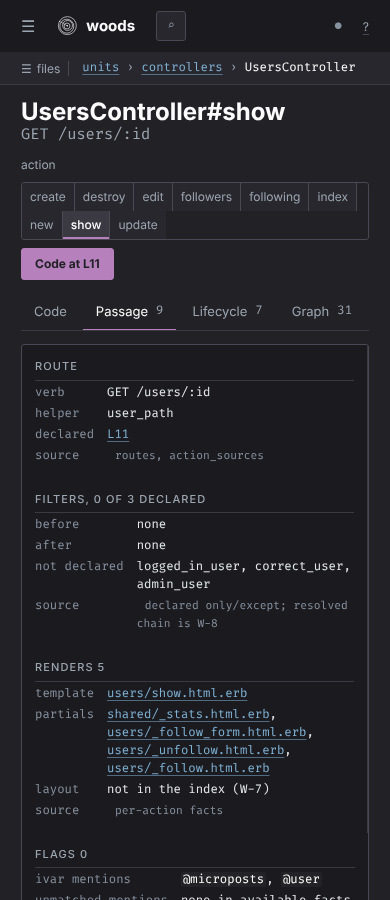
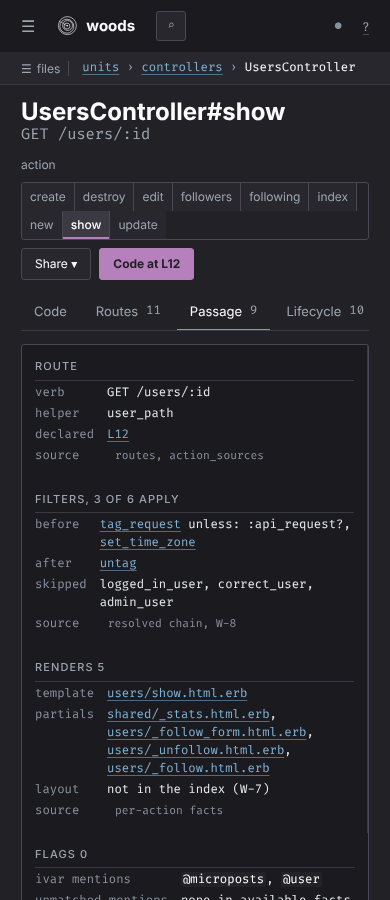
Draw the Passage filter matrix from the resolved chain (W-8)
The Passage tab now takes each filter's applies_to, owner and
applicability from Woods' resolved chain (woods#800). The matrix is in
chain order with owners linked when the index holds them and concerns
marked with an arrow; a conditional filter is marked as such and its
check means it can run, never that it does. The filter stages count the
filters that apply and list the skipped ones. A generation extracted
before W-8 keeps the declared only/except scopes and names the resolved
chain as a limit.

Advances #3 (B-16).

diff --git a/app/assets/stylesheets/woods_map/map.css b/app/assets/stylesheets/woods_map/map.css
@@ -15,8 +15,8 @@ html.js .wm .tbl.grouped tr.sub:not(.open){display:none}
 .wm .tree [data-tree-target="row"][hidden] { display:none!important; }
 /* Inline links: a cue besides colour (D-22, WCAG 1.4.1, axe link-in-text-block). Standalone
    links stay bare; a link sitting among other text gets a faint underline in its own hue. */
-.wm .crumbs a,.wm .empty-state a,.wm .cap a,.wm .lead a,.wm .det dd a,.wm .facts dd a,.wm .banner .txt a,.wm .legend a,.wm .st a,.wm .mg a,.wm .rail li a,.wm .tip a,.wm .finding a,.wm .status a,.wm .psg .rows a,.wm .sec > header .t2 a,.wm .tbl tr.bnd a,.wm .guide .msg .text a{text-decoration:underline;text-decoration-color:color-mix(in srgb,var(--link) 55%,transparent);text-underline-offset:3px}
-.wm .crumbs a:hover,.wm .empty-state a:hover,.wm .cap a:hover,.wm .lead a:hover,.wm .det dd a:hover,.wm .facts dd a:hover,.wm .banner .txt a:hover,.wm .legend a:hover,.wm .st a:hover,.wm .mg a:hover,.wm .rail li a:hover,.wm .tip a:hover,.wm .finding a:hover,.wm .status a:hover,.wm .psg .rows a:hover,.wm .sec > header .t2 a:hover,.wm .tbl tr.bnd a:hover,.wm .guide .msg .text a:hover{text-decoration-color:var(--link)}
+.wm .crumbs a,.wm .empty-state a,.wm .cap a,.wm .lead a,.wm .det dd a,.wm .facts dd a,.wm .banner .txt a,.wm .legend a,.wm .st a,.wm .mg a,.wm .rail li a,.wm .tip a,.wm .finding a,.wm .status a,.wm .psg .rows a,.wm .sec > header .t2 a,.wm .tbl tr.bnd a,.wm .guide .msg .text a,.wm .matrix .mut a{text-decoration:underline;text-decoration-color:color-mix(in srgb,var(--link) 55%,transparent);text-underline-offset:3px}
+.wm .crumbs a:hover,.wm .empty-state a:hover,.wm .cap a:hover,.wm .lead a:hover,.wm .det dd a:hover,.wm .facts dd a:hover,.wm .banner .txt a:hover,.wm .legend a:hover,.wm .st a:hover,.wm .mg a:hover,.wm .rail li a:hover,.wm .tip a:hover,.wm .finding a:hover,.wm .status a:hover,.wm .psg .rows a:hover,.wm .sec > header .t2 a:hover,.wm .tbl tr.bnd a:hover,.wm .guide .msg .text a:hover,.wm .matrix .mut a:hover{text-decoration-color:var(--link)}
 /* Native explanation controls retain the inline glyph styling; tabs use the existing scroll cliff. */
 .wm button.info{font-size:inherit;line-height:inherit;padding:0;border:0;background:none}
 .wm .page-tabs .tab{flex-shrink:0;white-space:nowrap}
@@ -249,3 +249,5 @@ html.js .wm .guide .guide-nojs{display:none}
 .wm .legend i.gblast[data-distance="2"]{border-color:var(--mod)}
 /* Cytoscape's container rule, which it would otherwise inject as an inline <style> the policy refuses. */
 .wm .__________cytoscape_container{position:relative}
+/* Filter matrix owners (B8-Passage): muted, regular weight, like the board's owner line */
+.wm .matrix td.id .mut a{font-weight:inherit}

diff --git a/spec/requests/resolved_filters_spec.rb b/spec/requests/resolved_filters_spec.rb
@@ -1,0 +1,80 @@
+# frozen_string_literal: true
+
+# The Passage tab over the resolved filter chain (W-8, woods#758), and its
+# fallback to declared scopes on a generation published before it.
+RSpec.describe 'The filter chain on the Passage tab', type: :request do
+  context 'with the resolved chain' do
+    def resolve(unit)
+      unit = unit.deep_dup
+      filters = unit['metadata']['filters']
+      filters.each do |f|
+        f.merge!('owner' => 'ActionController::Base', 'applies_to' => unit['metadata']['actions'],
+                 'applicability' => 'resolved')
+      end
+      apps = filters.select { |f| f['file'] }
+      apps[0].merge!('owner' => 'UsersController', 'applies_to' => %w[edit update])
+      apps[1].merge!('owner' => 'Authenticating', 'applies_to' => %w[create edit], 'applicability' => 'conditional',
+                     'unless' => ':api_request?')
+      apps[2].merge!('owner' => 'MicropostsController', 'applies_to' => [])
+      unit
+    end
+
+    before do
+      allow(WoodsMap::Repository).to receive(:open).and_wrap_original do |open, *args, &block|
+        open.call(*args) do |repository|
+          allow(repository).to receive(:unit).and_wrap_original do |unit, identifier, **options|
+            found = unit.call(identifier, **options)
+            identifier == 'UsersController' && found ? resolve(found) : found
+          end
+          allow(repository).to receive(:identifier_types).and_wrap_original do |types, identifier|
+            identifier == 'Authenticating' ? ['concern'] : types.call(identifier)
+          end
+          block.call(repository)
+        end
+      end
+      get '/woods/units/controller/UsersController/passage?action_name=edit'
+    end
+
+    it 'draws the matrix in chain order with the resolved actions' do
+      expect(response).to have_http_status(:ok)
+      expect(response.body).to include('Filter matrix <span class="n">chain order</span>', '>filter, owner</th>')
+      expect(response.body[%r{admin_user</a>.*?</tr>}m]).not_to include('✓')
+    end
+
+    it 'links each other owner the index holds, marks a concern and names the controller itself plainly' do
+      expect(response.body).to include('← <a href="/woods/units/concern/Authenticating">Authenticating</a>',
+                                       '<a href="/woods/units/controller/MicropostsController">',
+                                       '<span class="mut regular">UsersController</span>')
+    end
+
+    it 'marks a conditional filter as such and never claims its condition resolves' do
+      expect(response.body).to include(', conditional: unless: :api_request?')
+      expect(response.body).to include('title="unless: :api_request?; only: edit, update"')
+      expect(response.body).to include('<span class="sr-only">, when unless: :api_request?</span>')
+      expect(response.body).to include('conditional, not evaluated')
+    end
+
+    it 'counts applying filters from the resolved chain and labels the rest skipped' do
+      expect(response.body).to include('Filters, 2 of 3 apply', 'resolved chain, W-8')
+      expect(response.body).to include('<span>skipped</span><span>admin_user, only: destroy, from ')
+      expect(response.body).to include('filter if/unless conditions are not evaluated')
+      expect(response.body).not_to include('W-8, re-extract', 'declared scope')
+    end
+  end
+
+  context 'without the resolved chain in the generation' do
+    before { get '/woods/units/controller/UsersController/passage?action_name=edit' }
+
+    it 'keeps the declared matrix' do
+      expect(response).to have_http_status(:ok)
+      expect(response.body).to include('Filter matrix <span class="n">declared scope</span>',
+                                       '>filter, declared in</th>', 'Filters, 2 of 3 declared')
+      expect(response.body).not_to include('chain order', 'conditional, not evaluated')
+    end
+
+    it 'names the resolved chain as a limit' do
+      expect(response.body).to include('this generation has no resolved chain (W-8)', 'W-8, re-extract',
+                                       'resolved filter chain and owners, not in this generation')
+    end
+  end
+end

diff --git a/lib/woods_map/passage.rb b/lib/woods_map/passage.rb
@@ -3,30 +3,16 @@
 module WoodsMap
   # The data passage of one controller or mailer action (B8-Passage): what the
   # index publishes of request → filters → action → templates → response.
-  # Filter scopes are shown as declared; the resolved chain and owner (W-8)
-  # is named as a limit, never derived here. With W-7's per-action facts the
-  # passage knows what the action and its filters assign and render, and
-  # notes template ivar mentions with no assignment recorded in those bodies.
+  # Filters follow the resolved chain Woods publishes (W-8, woods#758): the
+  # actions each applies to, its owner and whether an if/unless condition
+  # still decides it. On a generation without it the passage falls back to
+  # the declared only/except and names the resolved chain as a limit; it never
+  # derives the chain itself. With W-7's per-action facts the passage knows
+  # what the action and its filters assign and render, and notes template ivar
+  # mentions with no assignment recorded in those bodies.
   class Passage
-    # One application filter with its declared scope.
-    Filter = Struct.new(:kind, :name, :only, :except, :file, :line, keyword_init: true) do
-      # @return [String] the declared scope as Rails reads it
-      def scope
-        return "only: #{only.join(', ')}" if only
-        return "except: #{except.join(', ')}" if except
-
-        'every action'
-      end
-
-      # @param action [String]
-      # @return [Boolean] whether the declared only/except names the action
-      def declared_for?(action)
-        return only.include?(action) if only
-        return except.exclude?(action) if except
-
-        true
-      end
-    end
+    # One application filter (see {PassageFilter}).
+    Filter = PassageFilter
 
     # A template ivar mention with no assignment recorded in the action or its filters.
     Flag = Struct.new(:ivar, :template, keyword_init: true)
@@ -83,12 +69,20 @@ module WoodsMap
         (facts&.line && { 'owner' => identifier, 'file' => facts.file, 'line' => facts.line })
     end
 
-    # @return [Array<Filter>] the application's filters in declared order; framework ones are counted, not listed
+    # @return [Array<Filter>] the application's filters in chain order; framework ones are counted, not listed
     def filters
       @filters ||= raw_filters.reject { |f| framework?(f) }.map do |f|
         Filter.new(kind: f['kind'] || f['type'].to_s.sub('_action', ''), name: f['filter'].to_s,
-                   only: f['only'], except: f['except'], file: f['file'], line: f['line'])
+                   only: f['only'], except: f['except'], if_condition: f['if'], unless_condition: f['unless'],
+                   file: f['file'], line: f['line'], owner: f['owner'], applies_to: f['applies_to'],
+                   applicability: f['applicability'])
       end
+    end
+
+    # @return [Boolean] whether every filter carries the resolved chain (W-8); false on an older
+    #   generation, where the passage shows declared scopes and names the limit
+    def resolved?
+      raw_filters.any? && raw_filters.all? { |f| f['applies_to'].is_a?(Array) }
     end
 
     # @return [Integer] filters the framework adds (engines, CSRF, origin), hidden from the passage
@@ -97,9 +91,10 @@ module WoodsMap
     end
 
     # @param for_action [String]
-    # @return [Array<Filter>] the filters whose declared scope names the action
+    # @return [Array<Filter>] the filters that apply to the action, in chain order: the published
+    #   applies_to (W-8), else the declared scope
     def filters_for(for_action = action)
-      filters.select { |f| f.declared_for?(for_action) }
+      filters.select { |f| f.applies?(for_action) }
     end
 
     # @return [Array<String>] path parameters named by the action's routes

diff --git a/spec/woods_map/passage_spec.rb b/spec/woods_map/passage_spec.rb
@@ -27,10 +27,49 @@ RSpec.describe WoodsMap::Passage do
     expect(show.filters.first.scope).to start_with('only: destroy, edit')
   end
 
-  it 'applies only/except as declared, never resolved' do
+  it 'applies only/except as declared on a generation without the resolved chain' do
     show = passage('UsersController', action: 'show')
     expect(show.filters_for.map(&:name)).to eq([])
     expect(show.filters_for('edit').map(&:name)).to eq(%w[logged_in_user correct_user])
+  end
+
+  # W-8 (woods#758): each filter carries the actions it applies to, its owner
+  # and whether an if/unless condition still decides it.
+  def resolved_passage(action)
+    WoodsMap::Repository.open(FIXTURE_INDEX) do |repository|
+      unit = repository.unit('UsersController', type: 'controller').deep_dup
+      unit['metadata']['filters'] = unit['metadata']['filters'].map do |f|
+        f.merge('owner' => 'ActionController::Base', 'applies_to' => unit['metadata']['actions'],
+                'applicability' => 'resolved')
+      end
+      apps = unit['metadata']['filters'].select { |f| f['file'] }
+      apps[0].merge!('owner' => 'UsersController', 'applies_to' => %w[edit update], 'applicability' => 'resolved')
+      apps[1].merge!('owner' => 'Authenticating', 'applies_to' => %w[create edit], 'applicability' => 'conditional',
+                     'unless' => ':api_request?')
+      apps[2].merge!('owner' => 'ApplicationController', 'applies_to' => [], 'applicability' => 'resolved')
+      described_class.new(repository, unit, action: action)
+    end
+  end
+
+  it 'applies the published resolved chain when the generation carries it (W-8)' do
+    edit = resolved_passage('edit')
+    expect(edit).to be_resolved
+    expect(edit.filters_for.map(&:name)).to eq(%w[logged_in_user correct_user])
+    expect(edit.filters_for('destroy').map(&:name)).to eq([])
+    expect(edit.filters_for('create').map(&:name)).to eq(%w[correct_user])
+  end
+
+  it 'keeps each filter owner and marks a conditional filter as such' do
+    filters = resolved_passage('edit').filters
+    expect(filters.map(&:owner)).to eq(%w[UsersController Authenticating ApplicationController])
+    expect(filters.map(&:conditional?)).to eq([false, true, false])
+    expect(filters[1].condition).to eq('unless: :api_request?')
+    expect(filters[0].condition).to be_nil
+  end
+
+  it 'falls back to declared scopes on a generation without the resolved chain' do
+    expect(passage('UsersController', action: 'edit')).not_to be_resolved
+    expect(passage('UsersController', action: 'edit').filters.map(&:owner)).to all(be_nil)
   end
 
   it 'ties the templates to the action through the view_render edge and follows their partials' do

diff --git a/lib/woods_map/passage_filter.rb b/lib/woods_map/passage_filter.rb
@@ -1,0 +1,48 @@
+# frozen_string_literal: true
+
+module WoodsMap
+  # One application filter: its declared scope and, from W-8, the actions it
+  # applies to, its owner and its applicability.
+  PassageFilter = Struct.new(:kind, :name, :only, :except, :if_condition, :unless_condition, :file, :line,
+                             :owner, :applies_to, :applicability, keyword_init: true) do
+    # @return [String] the declared scope as Rails reads it
+    def scope
+      return "only: #{only.join(', ')}" if only
+      return "except: #{except.join(', ')}" if except
+
+      'every action'
+    end
+
+    # @param action [String]
+    # @return [Boolean] whether the declared only/except names the action
+    def declared_for?(action)
+      return only.include?(action) if only
+      return except.exclude?(action) if except
+
+      true
+    end
+
+    # @return [Boolean] whether the generation published this filter's resolved actions (W-8)
+    def resolved?
+      !applies_to.nil?
+    end
+
+    # @param action [String]
+    # @return [Boolean] whether the filter applies: its published applies_to,
+    #   else its declared only/except
+    def applies?(action)
+      resolved? ? applies_to.include?(action) : declared_for?(action)
+    end
+
+    # @return [Boolean] whether an if/unless condition Woods does not evaluate also decides it
+    def conditional?
+      applicability == 'conditional'
+    end
+
+    # @return [String, nil] the declared if/unless condition, e.g. "unless: :api_request?"
+    def condition
+      parts = [("if: #{if_condition}" if if_condition), ("unless: #{unless_condition}" if unless_condition)]
+      parts.compact.join(', ').presence
+    end
+  end
+end

diff --git a/app/helpers/woods_map/units_helper.rb b/app/helpers/woods_map/units_helper.rb
@@ -18,6 +18,19 @@ module WoodsMap
       link_to(label || identifier, woods_map.unit_path(type: type, identifier: identifier))
     end
 
+    # The class or concern that declared a filter (W-8), linked when the index
+    # holds it; a concern is marked "← " as on B8-Passage.
+    #
+    # @param owner [String, nil]
+    # @return [ActiveSupport::SafeBuffer]
+    def filter_owner(owner)
+      return ERB::Util.html_escape('') if owner.blank?
+
+      types = Array(current_repository&.identifier_types(owner))
+      link = unit_link(owner, (%w[controller mailer concern] & types).first || types.first)
+      types.include?('concern') ? safe_join(['← ', link]) : link
+    end
+
     # A link to a line of the unit that owns a file, through the graph's file map.
     #
     # @param file [String] a path relative to the application root

diff --git a/spec/woods_map/impact_review_spec.rb b/spec/woods_map/impact_review_spec.rb
@@ -18,7 +18,7 @@ RSpec.describe WoodsMap::ImpactReview do
   it 'names what the other rules need' do
     v = review('User')
     expect(v.rules.find { |x| x.name == 'foreign key dropped' }.result).to eq('needs a range')
-    expect(v.rules.find { |x| x.name == 'filter chain changed' }.result).to eq('needs W-8 and a range')
+    expect(v.rules.find { |x| x.name == 'filter chain changed' }.result).to eq('needs a range')
   end
 
   it 'runs the unassigned-ivar rule on the per-action facts, from the mailer or from its template' do

diff --git a/lib/woods_map/impact_review.rb b/lib/woods_map/impact_review.rb
@@ -24,7 +24,7 @@ module WoodsMap
       ['callback side effect changed', 'note', 'callbacks.side_effects, both generations', 'resolved chain',
        'a range'],
       ['filter chain changed', 'note', 'filters.applies_to, both generations', 'resolved chain',
-       'W-8 and a range'],
+       'a range'],
       ['foreign key dropped', 'blocking', 'foreign_keys, both generations', 'model metadata', 'a range']
     ].freeze
 

diff --git a/lib/woods_map.rb b/lib/woods_map.rb
@@ -33,6 +33,7 @@ require 'woods_map/neighbourhood_response'
 require 'woods_map/history_view'
 require 'woods_map/action_facts'
 require 'woods_map/passage_templates'
+require 'woods_map/passage_filter'
 require 'woods_map/passage'
 require 'woods_map/permitted_attributes'
 require 'woods_map/routes_view'

diff --git a/CLAUDE.md b/CLAUDE.md
@@ -46,7 +46,7 @@ lib/woods_map/hover_card.rb      # B-3 hover cards: graph node, PageRank place a
 lib/woods_map/{schema_view,lifecycle,neighbourhood,history_view}.rb  # the Schema, Lifecycle, Graph and History tabs
 lib/woods_map/{lifecycle_chart,state_machine_view}.rb  # the Lifecycle flowchart and lanes; a model's published state machines
 lib/woods_map/erd.rb             # /woods/erd: database_table units chunked at the ER budget, relations, schema findings (cached per generation)
-lib/woods_map/passage.rb         # the Passage tab: declared filters, templates by the view_render edge, the ladder's model and event
+lib/woods_map/{passage,passage_filter}.rb  # the Passage tab: the resolved filter chain (W-8; declared scopes on older generations), templates by the view_render edge, the ladder's model and event
 lib/woods_map/routes_view.rb     # the controller Routes tab: declared routes joined to route units, helpers, action sources, helper references
 lib/woods_map/permitted_attributes.rb  # permitted keys against the model's published columns, associations, attachments, rich text, writers
 lib/woods_map/{neighbourhood_query,neighbourhood_response,graph_elements}.rb  # bounded JSON projection of existing traversal
@@ -80,7 +80,7 @@ docs/design/                     # design study, decisions, boards, foundations,
 - `Neighbourhood` receives the selected unit type from its route and traverses typed identities, including variant edges. Type filters apply to the endpoint first reached by each breadth-first edge visit; missing type metadata on older graphs falls back to the primary node. Graph-analysis notes retain their published identifier-level scope.
 - `Lifecycle` keeps only callbacks whose method the unit's source or an inlined concern defines; framework callbacks and procs are counted as a limit, not drawn as steps. `?view=` picks the sequence (default), flowchart or lanes (`swimlane-beta`) text from the same steps. State diagrams come only from published `state_machine` units reached by a reverse `state_machine` edge (`StateMachineView.for_model`); transition callbacks are listed as recorded, never parsed (woods#796).
 - `Outline`, `SchemaView`, `Neighbourhood` and `HistoryView` read the generation at construction, so a view may use them after the repository block closes.
-- `Passage` shows filter scopes as declared (`only`/`except` lists) and never resolves the chain (W-8). Assigns, params and renders come only from Woods' `metadata.action_facts` (W-7, `WoodsMap::ActionFacts`); without them it ties templates to actions through the `view_render` edge or a mailer's template list and raises no flag. Admitted actions missing facts, absent template ivar metadata, partial chains beyond the traversal limit, dynamic render targets (W-7 renders keyed `object`) and a template's `metadata.unresolved_partials` stay incomplete and are named (`PassageTemplates#unresolved`); format, `head` and redirect responses are complete. Template ivars are lexical mentions: unmatched mentions are advisory, with no claim about a runtime value. Shared partial focus follows reverse render edges to find its owners. A fact the index lacks is named as a limit, not derived; the map never parses host source.
+- `Passage` takes filter applicability from Woods' resolved chain (W-8, woods#758): each filter's `applies_to`, `owner` and `applicability`, in published chain order. A `conditional` filter (an `if`/`unless` Woods does not evaluate) is marked as such and its ✓ means it can run, never that it does. On a generation without those keys (`Passage#resolved?` false) it falls back to the declared `only`/`except` and names the resolved chain as a limit; the map never resolves the chain itself. Assigns, params and renders come only from Woods' `metadata.action_facts` (W-7, `WoodsMap::ActionFacts`); without them it ties templates to actions through the `view_render` edge or a mailer's template list and raises no flag. Admitted actions missing facts, absent template ivar metadata, partial chains beyond the traversal limit, dynamic render targets (W-7 renders keyed `object`) and a template's `metadata.unresolved_partials` stay incomplete and are named (`PassageTemplates#unresolved`); format, `head` and redirect responses are complete. Template ivars are lexical mentions: unmatched mentions are advisory, with no claim about a runtime value. Shared partial focus follows reverse render edges to find its owners. A fact the index lacks is named as a limit, not derived; the map never parses host source.
 - `RoutesView` (the controller Routes tab) lists the controller's `metadata.routes` joined by `VERB path` to route units, plus `route_dispatch` route units the metadata omits. Helpers are `<name>_path`/`<name>_url` of the published route name. Findings come only from graph analysis's `unresolvable_routes` for that controller, shown as notes (woods#726 tracks implicit-render false positives). `route_file` nodes carry no source, so the `routes.rb` line is text, never a link. Navigation edges name the controller only; helper- and action-level use is woods#795.
 - The impact page computes nothing a range needs: `BlastRadius` propagates over `reverse_via` of one generation and `ImpactReview` runs only the rules that generation can answer, listing the rest with what they need (W-7, W-8, a range). The range page delegates to `Woods::Impact::Report.compare` (W-12, decision D-1), optionally loaded from `woods/impact/report`. It renders the string-keyed schema version 1 evidence without deriving another diff or traversal. Retain endpoint/generation context, coverage and unknowns; historical identities have no current-source links. Missing capability and unreadable evidence are explicit states. Manifest checksums cover manifests only; source sizes are not changed-line counts. Never render Markdown or JSON reports here.
 - The guide (M7) never makes RubyLLM a dependency: only `WoodsMap::Guide.backend` requires `ruby_llm` and `woods_map/guide/agent`, and only when `guide_enabled` is set on Ruby 3.2+. Everything else (runner, store, answer) works with any chat that has RubyLLM's step-wise surface; specs use `FakeGuideChat` (`config.guide_chat_factory`), and `spec/woods_map/guide_agent_spec.rb` runs the real agent against an in-process fake provider and the real `woods-mcp`. The model sees `Guide::TOOLS` only. Context is rebuilt server-side from the pinned generation; answers link only identifiers in `Repository#identifier_index`. Streams run in `GuideStreamsController` (`ActionController::Live`) without holding the manifest lock; the answer's links are rendered from a fresh `Repository.open` when it ends. A turn streams once (`Store#claim`).

diff --git a/docs/design/coverage.md b/docs/design/coverage.md
@@ -35,7 +35,7 @@ opens the file tree.
 | Graph tab | Neighbourhood, filters, depth, hubs | FR-5, A-1, A-2 | [B6-Graph](boards/B6-Graph.html) | final; built with the Cytoscape canvas, the second layout is *radial* rather than *organic* pending [woods-map#63](https://github.com/lost-in-the/woods-map/issues/63) |
 | History tab | Commit strip, commits with description rows, co-change, people | FR-7, B-6, C-5 | [B6-History](boards/B6-History.html) | final; generation picker not drawn |
 | Controller: Routes tab | Routes, helpers, action sources | FR-3 | [Routes tab note](notes/routes-tab.md) | routes as declared joined to route units, named-route helpers, action sources, unresolvable-route findings; helper references are controller-level until [woods#795](https://github.com/lost-in-the/woods/issues/795) |
-| Controller: Passage tab | Stages, filter matrix, callback ladder, mismatch flags, export | B-16 to B-20 | [B8-Passage](boards/B8-Passage.html) | final; the engine shows declared filter scopes (W-8 pending) and compares lexical template ivar mentions with W-7 assignments as advisory notes; missing action/template facts and truncated partial chains remain incomplete; permitted keys are matched to published model facts and unmatched ones stay unverified (woods#797), partial locals are a named limit (woods#798), see [note](notes/passage-mismatch-limits.md) |
+| Controller: Passage tab | Stages, filter matrix, callback ladder, mismatch flags, export | B-16 to B-20 | [B8-Passage](boards/B8-Passage.html) | final; the filter matrix and filter stages follow the resolved chain with owners and conditional filters marked (W-8, woods#800), falling back to declared scopes on older generations, and the engine compares lexical template ivar mentions with W-7 assignments as advisory notes; missing action/template facts and truncated partial chains remain incomplete; permitted keys are matched to published model facts and unmatched ones stay unverified (woods#797), partial locals are a named limit (woods#798), see [note](notes/passage-mismatch-limits.md) |
 | Mailer: Passage and Templates | Mailer action passage, delivery, templates | B-17 | — | **none** (same component as the controller passage) |
 | Unit pages: job, mailer, view, concern, serializer, table | Type-specific facts tiles | B-4 | [Published facts note](notes/published-type-facts.md) | bounded published-metadata tiles |
 | `/woods/files/*path` | Indexed file ownership: primary and contributor paths, typed owners and unresolved membership | B-5 | [M1 navigation note](notes/m1-indexed-navigation.md) | shared components; mounted acceptance separate |

diff --git a/docs/design/screenshots/README.md b/docs/design/screenshots/README.md
@@ -40,7 +40,8 @@ widths are the tiers of D-19.
 | Hover card on a reference, Code tab (`…/model/User`, hovered at 1440, focused at 390) | [Hover card note](../notes/hover-card.md) (no board) | [1440](hover-card-1440.png), [390](hover-card-390.png) |
 | Reading settings on the Code tab (`…/model/User`) | [Settings note](../notes/settings.md) (no board) | [dialog 1440](settings-1440.png), [dialog 390](settings-390.png), [editor set, 390](settings-editor-390.png), [wrap on, 390](settings-wrap-390.png) |
 | Share menu open, unit tab and impact page (`…/User/schema`, `/woods/impact?focus=User`) | [Share menu note](../notes/share-menu.md) (no board) | [1440](share-1440.png), [impact 390](share-impact-390.png) |
-| Passage tab, controller action (`…/UsersController/passage?action_name=show`) | [B8-Passage](../boards/B8-Passage.html) | [1440](passage-1440.png), [create, with the callback ladder](passage-create-1440.png), [390](passage-390.png) |
+| Passage tab, controller action (`…/UsersController/passage?action_name=show`; 1440 and 390 taken on the testbed copy described in the next row) | [B8-Passage](../boards/B8-Passage.html) | [1440](passage-1440.png), [create, with the callback ladder](passage-create-1440.png), [390](passage-390.png) |
+| Passage filter matrix over the resolved chain (W-8): chain order, owners (← for a concern), a conditional filter marked (`…/UsersController/passage?action_name=index`; the testbed copy adds a `RequestTagging` concern and `skip_before_action :set_time_zone, only: :index` to show inherited, concern and skipped filters) | [B8-Passage](../boards/B8-Passage.html) (*Filter matrix*) | [1440](passage-filter-matrix-1440.png) |
 | Passage tab, mailer action | [B8-Passage](../boards/B8-Passage.html) (the mailer passage is undesigned; the controller passage is reused) | [1440](passage-mailer-1440.png) |
 | Impact, pre-change mode (`/woods/impact?focus=User&depth=2`): Changed with a path opened | [B8-Impact-Changed](../boards/B8-Impact-Changed.html), the frame with a focus title | [1440](impact-changed-open-1440.png), [390](impact-390.png) |
 | Impact, Risks | [B8-Impact-Risks](../boards/B8-Impact-Risks.html) | [1440](impact-risks-1440.png) |
